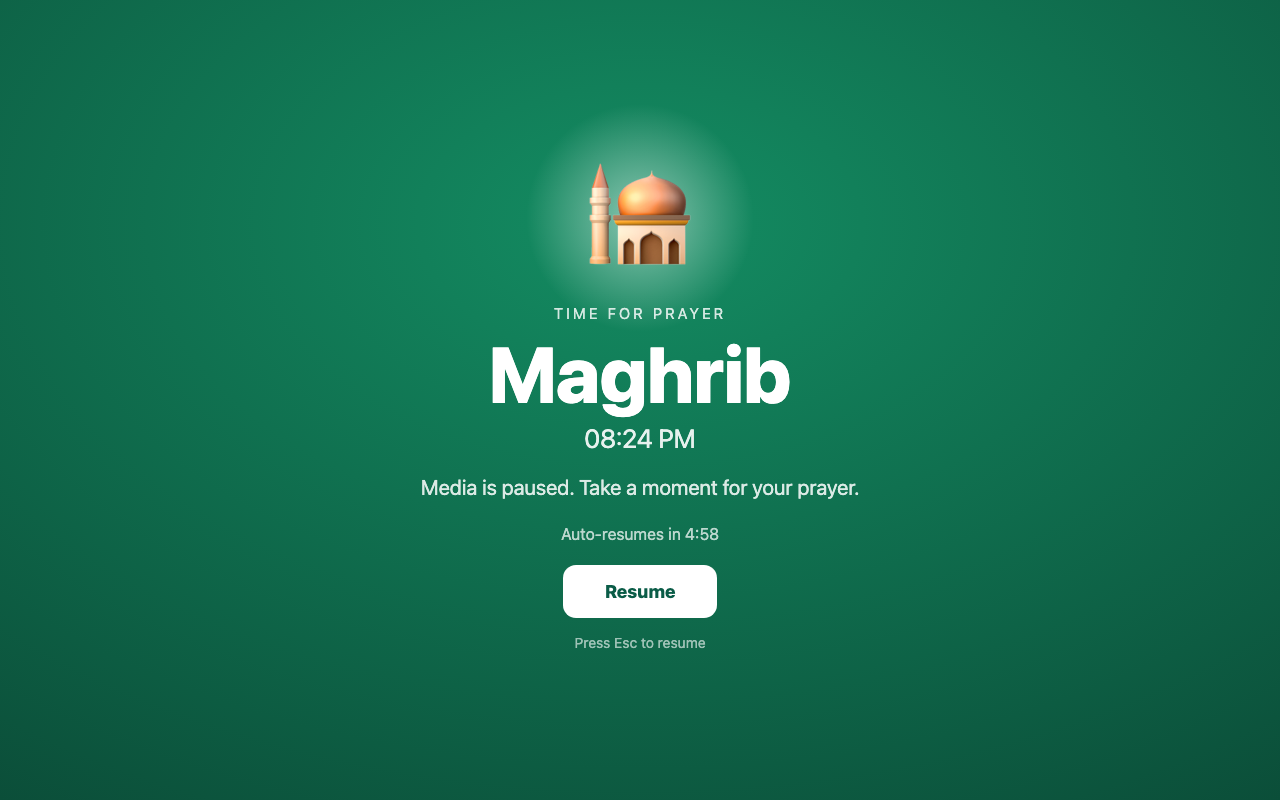
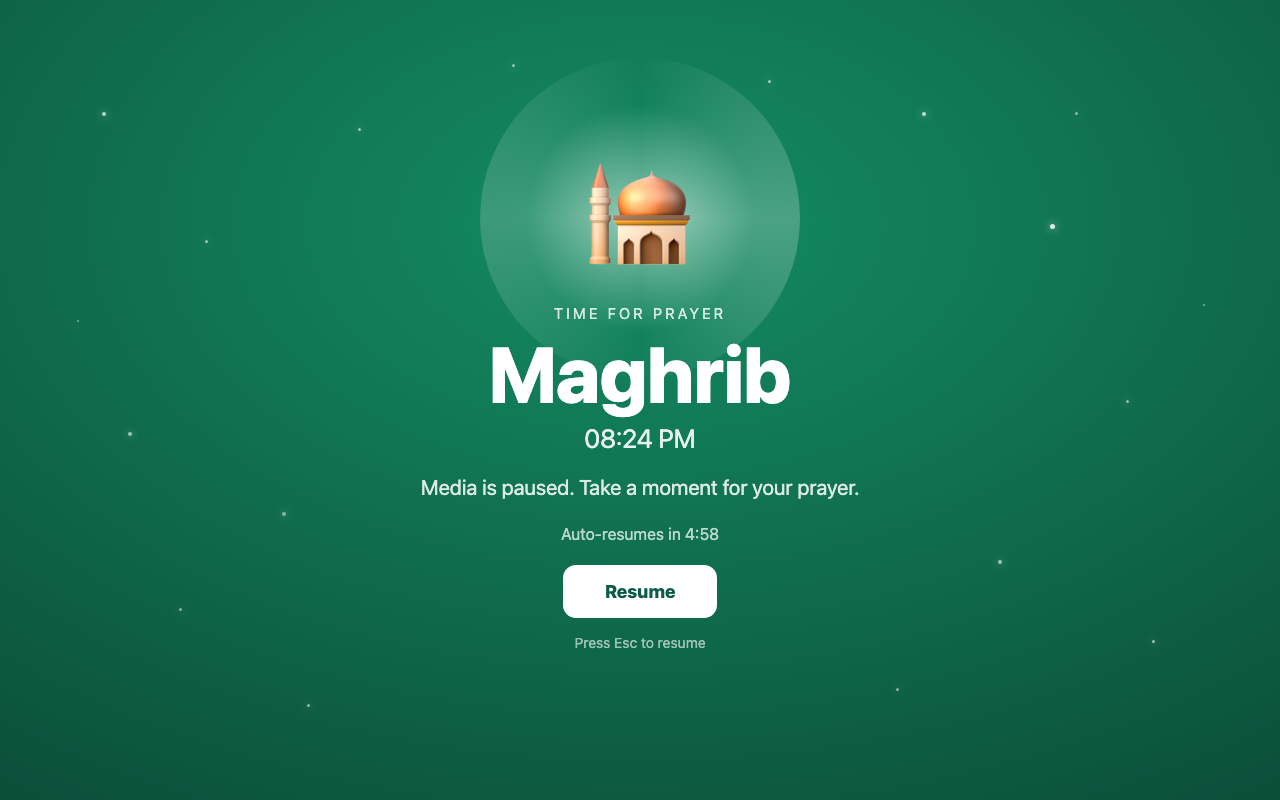
chore(store): screenshot #3 now shows the starfield Prayer Focus (matches v1.7.1 animation)

Changed region(s): [[0.5312, 0.125, 0.625, 0.4375], [0.375, 0.1562, 0.4688, 0.4062]]

diff --git a/docs/store-assets.html b/docs/store-assets.html
@@ -73,6 +73,10 @@
       .focus { text-align: center; color: #fff; position: relative; }
       .crescent-wrap { position: relative; display: inline-block; }
       .crescent-wrap .glow { position: absolute; top: 50%; left: 50%; width: 230px; height: 230px; transform: translate(-50%,-50%); border-radius: 50%; background: radial-gradient(circle, rgba(255,255,255,.5), rgba(255,255,255,0) 70%); }
+      .crescent-wrap .halo { position: absolute; top: 50%; left: 50%; width: 320px; height: 320px; transform: translate(-50%,-50%); border-radius: 50%; background: conic-gradient(from 0deg, rgba(255,255,255,0), rgba(255,255,255,.24), rgba(255,255,255,0) 50%, rgba(255,255,255,.18), rgba(255,255,255,0)); }
+      .s3stars { position: absolute; inset: 0; z-index: 0; pointer-events: none; }
+      .s3stars span { position: absolute; border-radius: 50%; background: #fff; box-shadow: 0 0 8px rgba(255,255,255,.9); }
+      #s3 .focus { position: relative; z-index: 1; }
       .focus .cre { position: relative; font-size: 104px; }
       .focus .t { font-size: 15px; letter-spacing: 3px; text-transform: uppercase; opacity: .82; margin-top: 18px; }
       .focus .nm { font-size: 78px; font-weight: 800; margin-top: 6px; }
@@ -139,10 +143,30 @@
       </div>
     </section>
 
-    <!-- Slide 3: animated focus screen -->
+    <!-- Slide 3: animated focus screen (starfield) -->
     <section class="slide" id="s3">
+      <div class="s3stars">
+        <span style="left:8%;top:14%;width:4px;height:4px;opacity:.7"></span>
+        <span style="left:16%;top:30%;width:3px;height:3px;opacity:.55"></span>
+        <span style="left:10%;top:54%;width:4px;height:4px;opacity:.6"></span>
+        <span style="left:14%;top:76%;width:3px;height:3px;opacity:.5"></span>
+        <span style="left:24%;top:88%;width:3px;height:3px;opacity:.55"></span>
+        <span style="left:6%;top:40%;width:2px;height:2px;opacity:.45"></span>
+        <span style="left:28%;top:16%;width:3px;height:3px;opacity:.6"></span>
+        <span style="left:22%;top:64%;width:4px;height:4px;opacity:.5"></span>
+        <span style="left:40%;top:8%;width:3px;height:3px;opacity:.55"></span>
+        <span style="left:60%;top:10%;width:3px;height:3px;opacity:.6"></span>
+        <span style="left:72%;top:14%;width:4px;height:4px;opacity:.75"></span>
+        <span style="left:82%;top:28%;width:5px;height:5px;opacity:.85"></span>
+        <span style="left:88%;top:50%;width:3px;height:3px;opacity:.55"></span>
+        <span style="left:78%;top:70%;width:4px;height:4px;opacity:.6"></span>
+        <span style="left:90%;top:80%;width:3px;height:3px;opacity:.6"></span>
+        <span style="left:70%;top:86%;width:3px;height:3px;opacity:.5"></span>
+        <span style="left:84%;top:14%;width:3px;height:3px;opacity:.5"></span>
+        <span style="left:94%;top:38%;width:2px;height:2px;opacity:.45"></span>
+      </div>
       <div class="focus">
-        <div class="crescent-wrap"><span class="glow"></span><span class="cre">🕌</span></div>
+        <div class="crescent-wrap"><span class="halo"></span><span class="glow"></span><span class="cre">🕌</span></div>
         <div class="t">Time for prayer</div>
         <div class="nm">Maghrib</div>
         <div class="tm">08:24 PM</div>